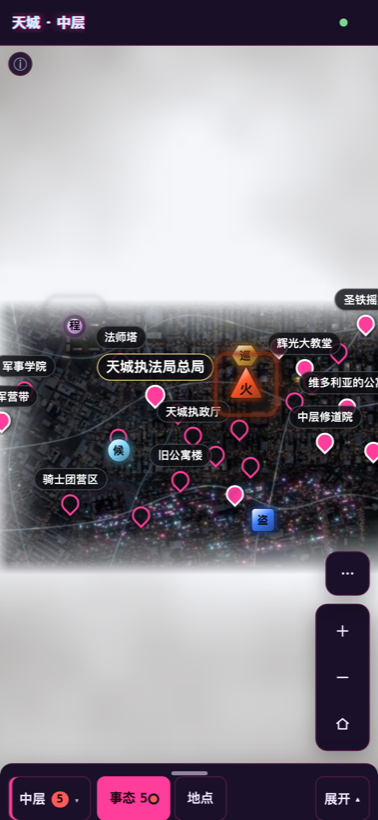
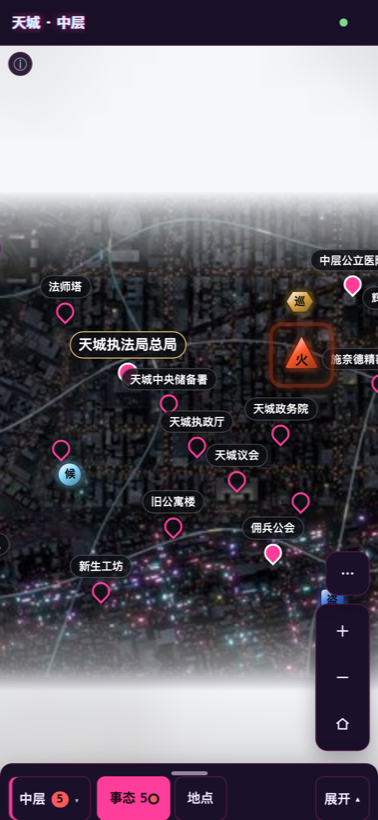
UI v2 评审第 3 轮（产品）：手机竖屏按核心区高度取景（留放大余地）、设置首页分组在前 / 图层快捷在后、截图 s5 / s6 改在查看器里拍（顶栏标题 + ⋯ + 宿主 ✕）

diff --git a/map/viewer.html b/map/viewer.html
@@ -510,11 +510,11 @@ html.rm, html.rm body, html.rm body[data-map] { --glow-text: none; --glow: none;
   <div class="sheet-h"><button type="button" class="btn" id="setBack" hidden><svg class="ico" viewBox="0 0 16 16" aria-hidden="true"><path d="M10 3L5 8l5 5"/></svg><span class="lbl" data-i18n="settings_title">设置</span></button><b id="setTitle" data-i18n="settings_title">设置</b><button type="button" class="btn ic" id="setX" data-i18n-aria="close" aria-label="关闭"><svg class="ico" viewBox="0 0 16 16" aria-hidden="true"><path d="M4 4l8 8M12 4l-8 8"/></svg></button></div>
   <section class="spage" data-page="home">
     <div class="acts" hidden><button type="button" class="btn" id="actUp" hidden></button><button type="button" class="btn" id="actHere" hidden data-i18n="here_go">当前位置</button><button type="button" class="btn" id="actClose" hidden data-i18n="act_close">关闭地图</button></div>
-    <h3 class="qlab" data-i18n="s.quick_layers">切换层</h3><div class="qlayers"></div>
-    <h3 class="morelab" data-i18n="layers_menu">图层</h3><div class="more"></div>
     <input type="search" id="setQ" data-i18n-ph="s.search" placeholder="搜索设置" autocomplete="off">
     <div id="setHits"></div>
     <nav class="sgroups"><button type="button" data-page="display"><b data-i18n="s.display">显示</b><span data-i18n="s.display_sub">主题 · 语言 · 清晰度 · 惯用手 · 动态</span></button><button type="button" data-page="people"><b data-i18n="s.people">人物</b><span data-i18n="s.people_sub">数值 · 更多资料 · 来源</span></button><button type="button" data-page="data"><b data-i18n="s.data">数据与映射</b><span data-i18n="s.data_sub">变量映射 · 别名 · 模板 · 存储</span></button><button type="button" data-page="update"><b data-i18n="s.update">更新与版本</b><span id="updSub"></span></button><button type="button" data-page="adv"><b data-i18n="s.adv">高级</b><span data-i18n="s.adv_sub">线路 · 三维抽屉 · 快捷键 · 调试</span></button></nav>
+    <h3 class="qlab" data-i18n="s.quick_layers">切换层</h3><div class="qlayers"></div>
+    <h3 class="morelab" data-i18n="layers_menu">图层</h3><div class="more"></div>
     <small class="orig" lang="zh">原作角色卡：Yehehua（类脑社区）· <a href="https://discord.com/channels/1380075940285124724/1534464824141025321" target="_blank" rel="noopener">原作发布帖</a>（地图为经作者同意的二次创作）</small>
   </section>
   <section class="spage" data-page="display" hidden>
@@ -1486,7 +1486,9 @@ function focusStart(immediately) {
   }
   // U2（spec §2.5）：手机竖屏第一次进入、没有要聚焦的地点时，按 view.phone（核心区 [x, y, w, h]，归一化）取景，四周「周边」只在缩远时出现
   const core = m.view?.phone, hereMk = m.kind !== 'world' && document.querySelector('.mk.here');
-  if (core && cs.y > cs.x && !pendingFocus && !hereMk) { viewer.viewport.fitBounds(new OpenSeadragon.Rect(core[0], core[1] * aspect, core[2], core[3] * aspect), immediately); return; }
+  if (core && cs.y > cs.x && !pendingFocus && !hereMk) {   // 竖屏：按核心区的高度取景（按宽 fit 会缩成一条横带，产品评审 P1）
+    const cw = Math.max(core[3] * aspect * cs.x / cs.y, core[2] * .55), chh = cw * cs.y / cs.x, cx = core[0] + core[2] / 2, cy = (core[1] + core[3] / 2) * aspect;   // 不比核心区宽度的 55% 更近：留出放大余地
+    viewer.viewport.fitBounds(new OpenSeadragon.Rect(cx - cw / 2, cy - chh / 2, cw, chh), immediately); return; }
   // view：初始可见宽度按米给（每张图自己的尺度）；竖屏时让可见「高度」等于这个宽度，手机上不会一打开就缩得很小
   const vw = viewNorm(m, 'width_m');
   if (vw) w = cs.y > cs.x ? vw * cs.x / cs.y : vw;
